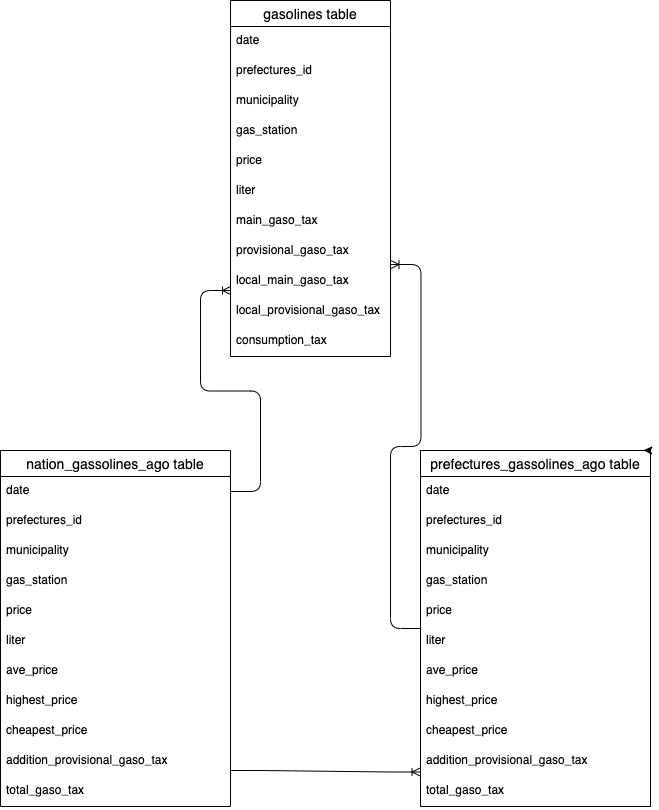
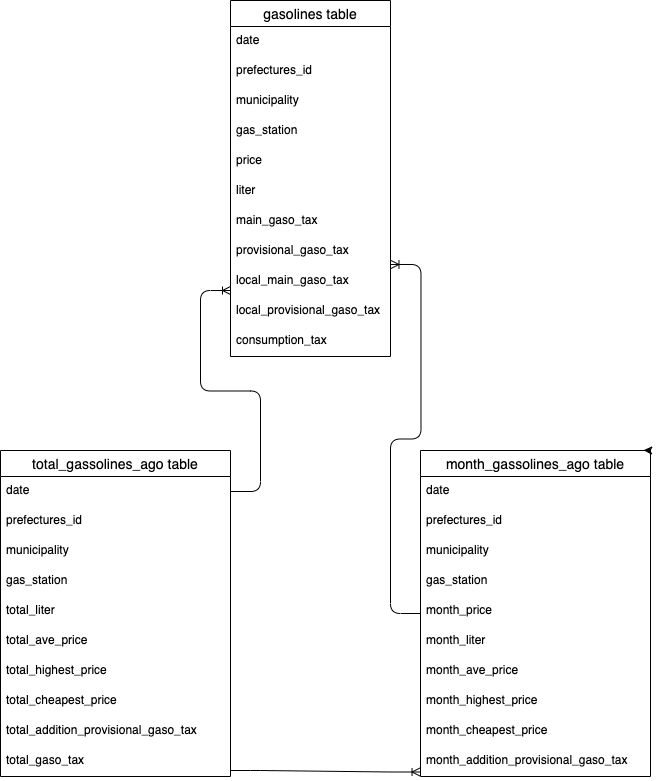
header

diff --git a/app/assets/stylesheets/shared/header.css b/app/assets/stylesheets/shared/header.css
@@ -3,13 +3,19 @@
 }
 
 .top-page-header {
-  height: 15vw;
+  height: 20vw;
   width: 100vw;
-  padding: 2vh 15vw;
+  padding: 2vh 10vw;
   display: flex;
   flex-direction: column;
   color:#4689FF;
   background-color: #000000;
+}
+
+.title_login{
+  display:flex;
+  width: 100%;
+  height: 8vw;
 }
 
 .title{
@@ -19,21 +25,6 @@
   align-items: center;
   text-decoration: none;
   color:#4689FF;
-}
-
-.nav {
-  font-size: 25px;
-  display: flex;
-  justify-content: space-between;
-  flex-wrap: wrap;
-  width: 100%;
-  padding: 1vh 0;
-}
-
-.lists-left {
-  display: flex;
-  min-width: 200px;
-
 }
 
 .lists-right {
@@ -66,4 +57,11 @@
 .sign-up {
   text-decoration: none;
   color: #4689FF;
+}
+
+.nav {
+  justify-content: space-around;
+  width: 100%;
+  height: 15vw;
+  font-size: 20px
 }

diff --git a/app/assets/stylesheets/gasolines.scss b/app/assets/stylesheets/gasolines.scss
@@ -6,12 +6,23 @@
   background-image: url("backfire.jpg");
   height: 100vh;
   width: 100vw;
-  opacity: 0.9;
-
+  opacity: 1;
+  background-size: 100% 100%;
 }
 
-.main{
-  height:60vh;
+.japan{
+  height:100vh;
   width: 100vw;
+  background-image: url("japan.jpg");
+  opacity: 0.3;
+  background-size: 100% 100%;
 }
 
+.region{
+  height:80%;
+  width: 100%;
+  color: #000000;
+  display: flex;
+  justify-content: space-around;
+  align-items: center;
+}

diff --git a/app/javascript/packs/application.js b/app/javascript/packs/application.js
@@ -7,8 +7,6 @@ require("@rails/ujs").start()
 require("turbolinks").start()
 require("@rails/activestorage").start()
 require("channels")
-require ("jquery")
-require ("jcanvas")
 import "bootstrap"
 import "../stylesheets/application"
 

diff --git a/app/assets/stylesheets/shared/footer.scss b/app/assets/stylesheets/shared/footer.scss
@@ -1,5 +1,5 @@
 .footer{
-  height: 20vh;
+  height: 10vh;
   width: 100vw;
   background-color: #000000;
   color: #ffffff;

diff --git a/README.md b/README.md
@@ -1,27 +1,34 @@
 # README
 
-This README would normally document whatever steps are necessary to get the
-application up and running.
+## アプリケーション名
+ガソリンダイエット
 
-Things you may want to cover:
+## アプリケーション概要
+ガソリンの値段を共有。その地域の最高値最安値を表示するとともに、支払った暫定税率を表示する。<br>
+主に自動車ユーザーの生活防衛のために、最適な給油所の選択とガソリンに過剰にかけられている税金の不毛さを知ってもらう。
 
-* Ruby version
+## URL
+https://github.com/kopelwende/gas_tax
 
-* System dependencies
+## 利用方法
+利用したガソリンの総額、リッターを記入する。すると、その地域の最高値、最安値と比較でき、また、支払った税金の額が表示される。
 
-* Configuration
+アプリケーションを作成した背景 | 総じて物価が高騰傾向にある昨今、特にガソリンの値段が高止まりしている。生活防衛のために少しでも安い給油所を探すとともに、過剰にかけられている税金を知ってもらう必要があると感じたため。
 
-* Database creation
+## 洗い出した要件
+https://docs.google.com/spreadsheets/d/1A3dSeg2dQiXbl5ZH7g91a5JEhDS9tfKk6_zDE3k1Vbk/edit#gid=982722306
 
-* Database initialization
+## 開発環境 
+Ruby on rails, Render
 
-* How to run the test suite
+## E-R図
+https://drive.google.com/drive/my-drive
 
-* Services (job queues, cache servers, search engines, etc.)
+## 工夫したポイント
+まずは必要最小限度を作ってリリースする。その後適宜拡張していく作りにした。<br>
+アプリの性格上、使用するごとに計算が増えていく、また将来の拡張性を考慮して、どの値をデータベースに保存するのか考えるのが大変だった。
 
-* Deployment instructions
 
-* ...
 
 ## gasolines テーブル
 
@@ -40,50 +47,50 @@ Things you may want to cover:
 | consumption_tax            | integer    | null: false |
 
 ### Association
-- belongs_to :prefectures_gassolines_ago
-- belongs_to :nation_gassolines_ago
+- belongs_to :month_gassolines_ago
+- belongs_to :total_gassolines_ago
 
 
 
-## prefectures_gassolines_ago テーブル
+## month_gassolines_ago テーブル
 
-| Column                        | Type       | Options                       |
-| ------------------------------| -----------| ----------------------------- |
-| date                          | date       | null: false foreign_key: true |
-| prefectures_id                | integer    | null: false foreign_key: true |
-| municipality                  | string     | null: false foreign_key: true |
-| gas_station                   | string     | null: false foreign_key: true |
-| price                         | integer    | null: false                   |
-| liter                         | integer    | null: false                   |
-| ave_price                     | integer    | null: false                   |
-| highest_price                 | integer    | null: false                   |
-| cheapest_price                | integer    | null: false                   |
-| addition_provisional_gaso_tax | integer    | null: false                   |
-| total_gaso_tax                | integer    | null: false                   |
+| Column                                    | Type       | Options                       |
+| ------------------------------------------| -----------| ----------------------------- |
+| date                                      | date       | null: false foreign_key: true |
+| prefectures_id                            | integer    | null: false foreign_key: true |
+| municipality                              | string     | null: false foreign_key: true |
+| gas_station                               | string     | null: false foreign_key: true |
+| month_price                               | integer    | null: false                   |
+| month_liter                               | integer    | null: false                   |
+| month_ave_price                           | integer    | null: false                   |
+| month_highest_price                       | integer    | null: false                   |
+| month_cheapest_price                      | integer    | null: false                   |
+| month_addition_provisional_gaso_tax       | integer    | null: false                   |
+| month_gaso_tax                            | integer    | null: false                   |
 
 
 ### Association
 - has_many :gasolines
-- belongs_to :nation_gassolines_ago
+- belongs_to :total_gassolines_ago
 
 
 
-## nation_gassolines_ago テーブル
+## total_gassolines_ago テーブル
 
-| Column                        | Type       | Options                       |
-| ------------------------------| -----------| ----------------------------- |
-| date                          | date       | null: false foreign_key: true |
-| prefectures_id                | integer    | null: false foreign_key: true |
-| municipality                  | string     | null: false foreign_key: true |
-| gas_station                   | string     | null: false foreign_key: true |
-| price                         | integer    | null: false                   |
-| liter                         | integer    | null: false                   |
-| ave_price                     | integer    | null: false                   |
-| highest_price                 | integer    | null: false                   |
-| cheapest_price                | integer    | null: false                   |
-| addition_provisional_gaso_tax | integer    | null: false                   |
-| total_gaso_tax                | integer    | null: false                   |
+| Column                                 | Type       | Options                       |
+| ---------------------------------------| -----------| ----------------------------- |
+| date                                   | date       | null: false foreign_key: true |
+| prefectures_id                         | integer    | null: false foreign_key: true |
+| municipality                           | string     | null: false foreign_key: true |
+| gas_station        　　　　　            | string     | null: false foreign_key: true |
+| total_liter                            | integer    | null: false                   |
+| total_price                            | integer    | null: false                   |
+| total_ave_price                        | integer    | null: false                   |
+| total_highest_price                    | integer    | null: false                   |
+| total_cheapest_price                   | integer    | null: false                   |
+| total_addition_provisional_gaso_tax    | integer    | null: false                   |
+| total_gaso_tax                         | integer    | null: false                   |
 
 ### Association
 - has_many :gasolines
-- has_many :prefectures_gassolines_agos
+- has_many :month_gassolines_agos
